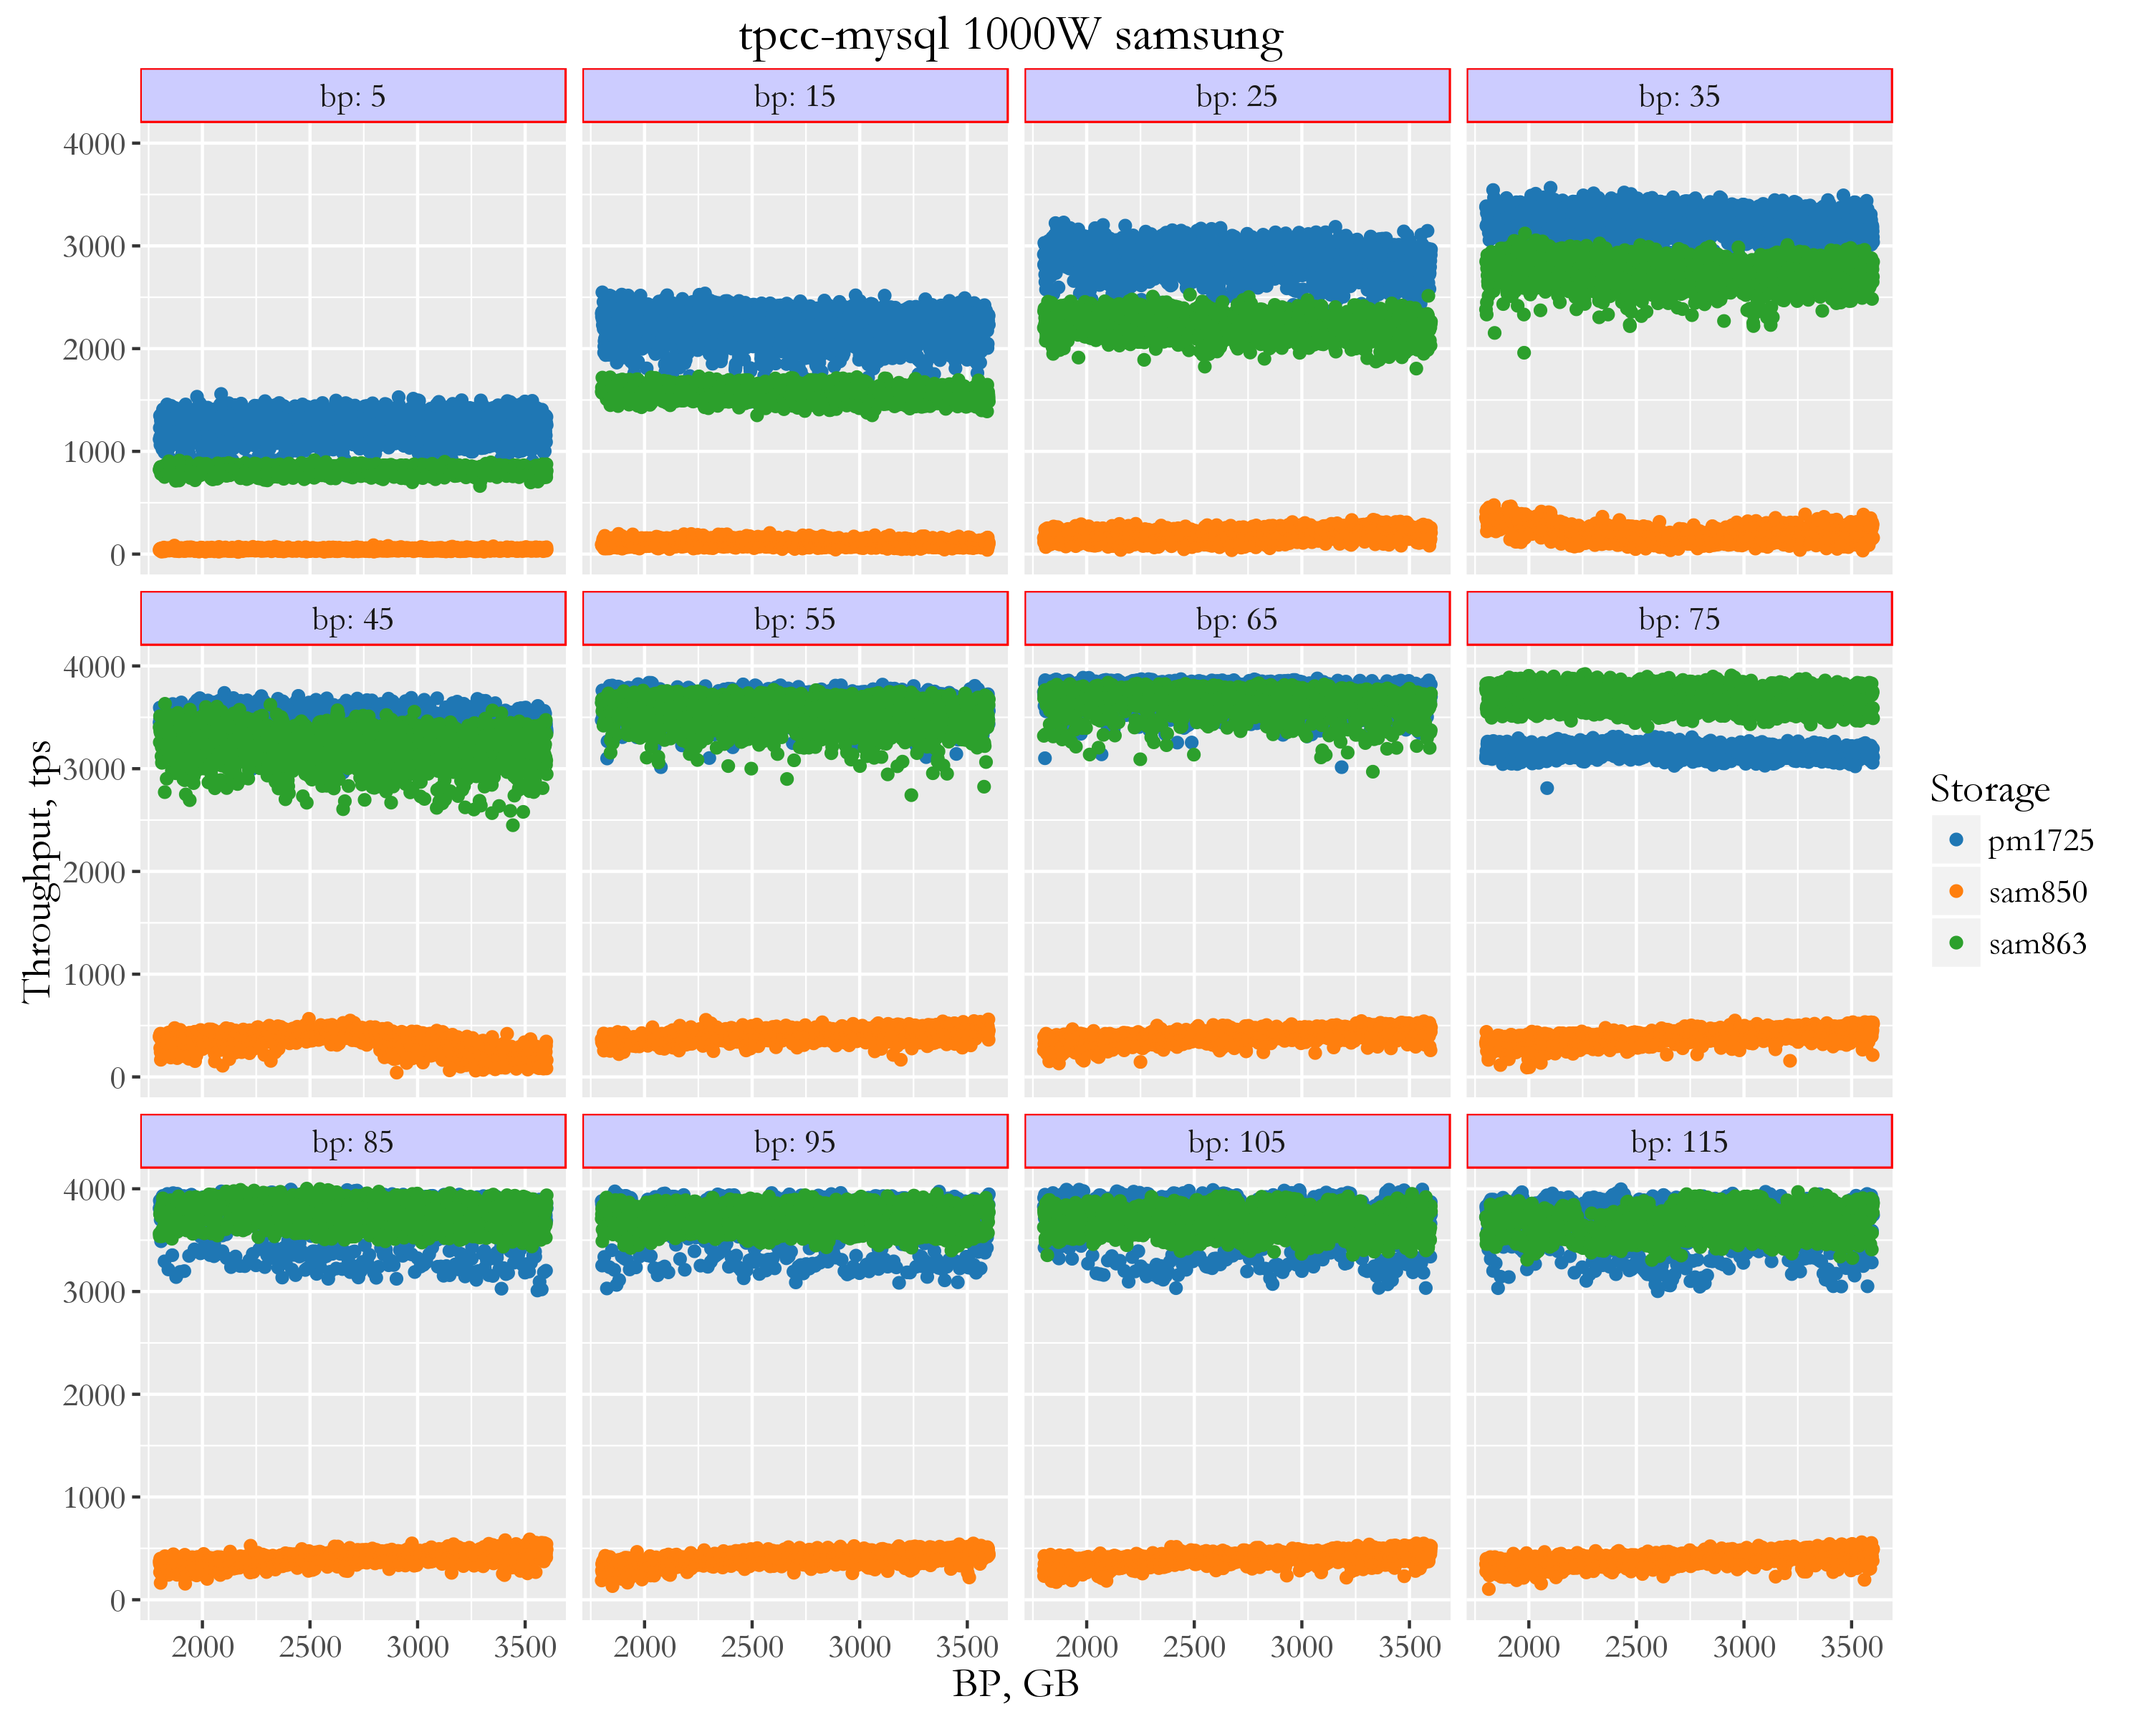
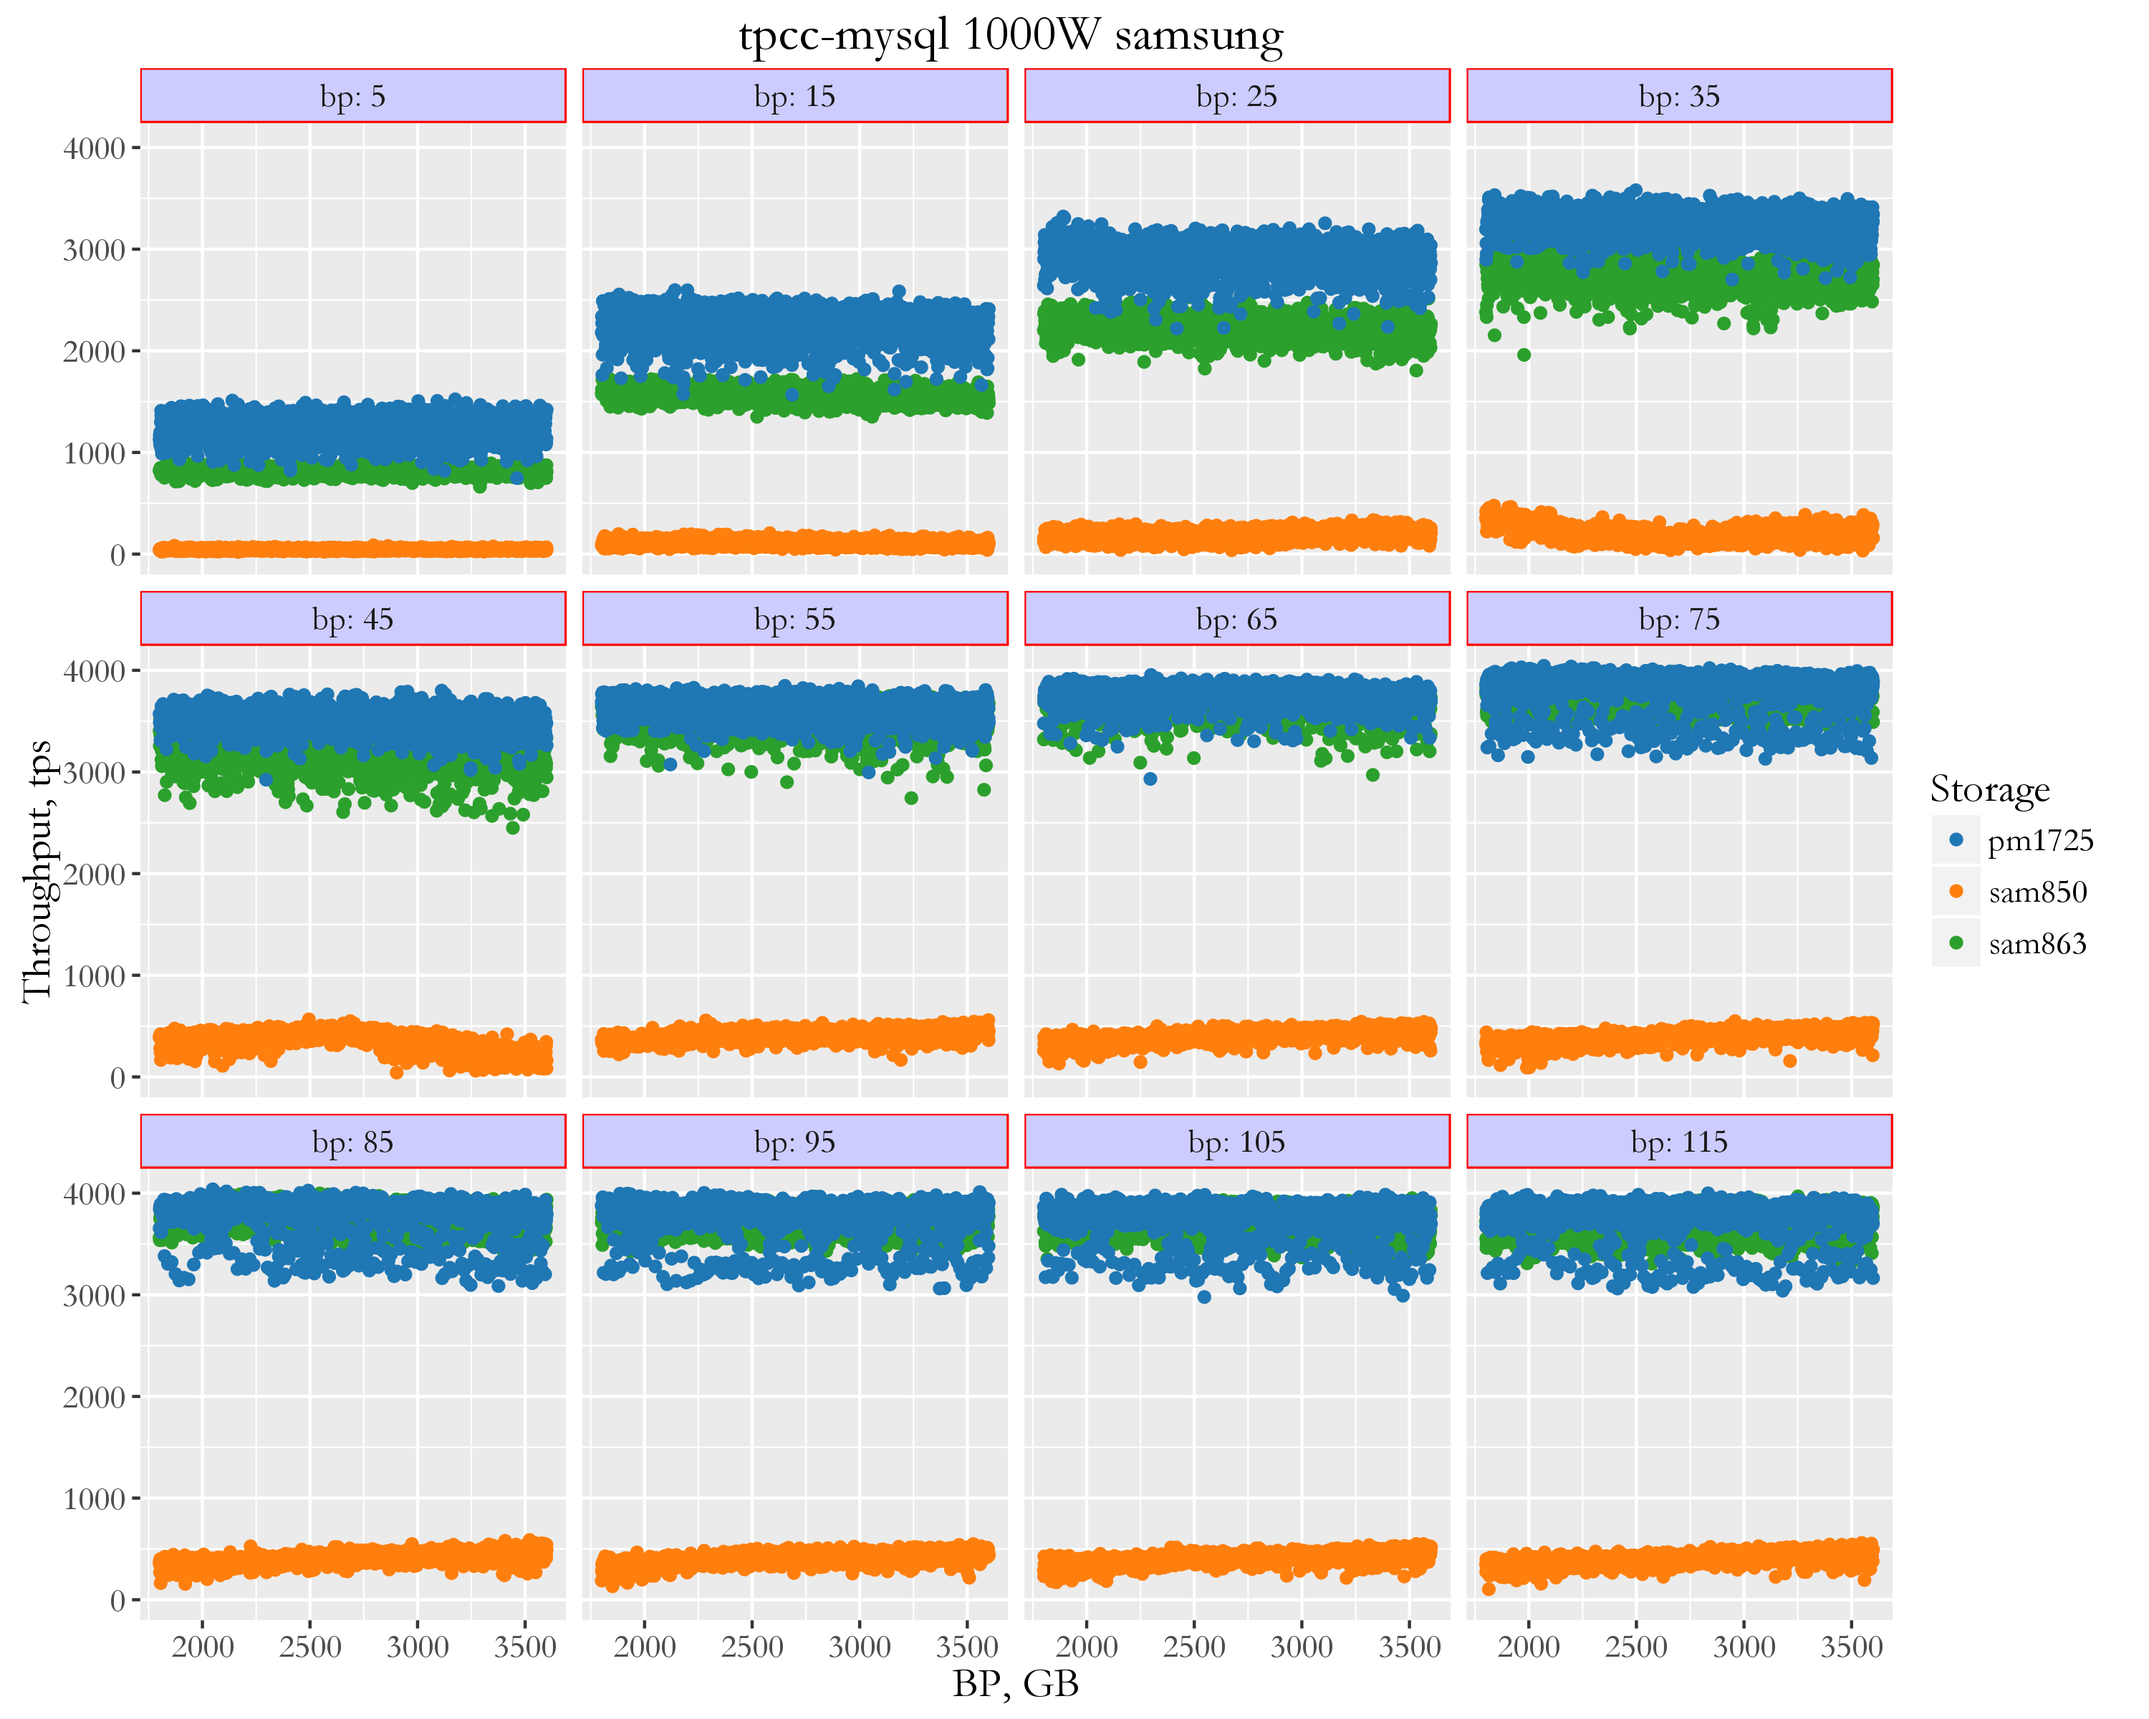
Fixes to the results

diff --git a/summary-tpcc-samsung.md b/summary-tpcc-samsung.md
@@ -1,5 +1,5 @@
-Percona Server/MySQL
-====================
+Percona Server - TPCC-MySQL
+===========================
 
 Setup
 -----
@@ -35,6 +35,21 @@ The measurements are taken every 1 sec, so we can see variance in throughput and
 The results for innodb\_page\_size=16k (default), 1 sec resolution ![](summary-tpcc-samsung_files/figure-markdown_github/unnamed-chunk-1-1.png)
 
 The average results in NOTPM ![](summary-tpcc-samsung_files/figure-markdown_github/unnamed-chunk-2-1.png)
+
+|   bp|     pm1725|    sam850|     sam863|  pm1725\_to\_sam863|  pm1725\_to\_sam850|
+|----:|----------:|---------:|----------:|-------------------:|-------------------:|
+|    5|   42427.57|   1931.54|   14709.69|                2.88|               21.97|
+|   15|   78991.67|   2750.85|   31655.18|                2.50|               28.72|
+|   25|  108077.56|   5156.72|   56777.82|                1.90|               20.96|
+|   35|  122582.17|   8986.15|   93828.48|                1.31|               13.64|
+|   45|  127828.82|  12136.51|  123979.99|                1.03|               10.53|
+|   55|  130724.59|  19547.81|  127971.30|                1.02|                6.69|
+|   65|  131901.38|  27653.94|  131020.07|                1.01|                4.77|
+|   75|  133184.70|  38210.94|  131410.40|                1.01|                3.49|
+|   85|  133058.50|  39669.90|  131657.16|                1.01|                3.35|
+|   95|  133553.49|  39519.18|  132882.29|                1.01|                3.38|
+|  105|  134021.26|  39631.03|  132126.29|                1.01|                3.38|
+|  115|  134037.09|  39469.34|  132683.55|                1.01|                3.40|
 
 #### Conclusion
 
